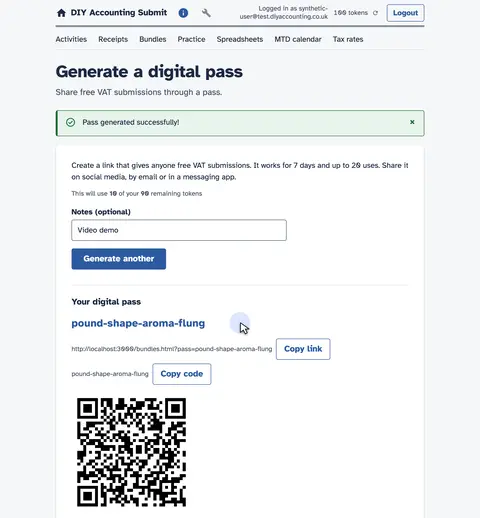
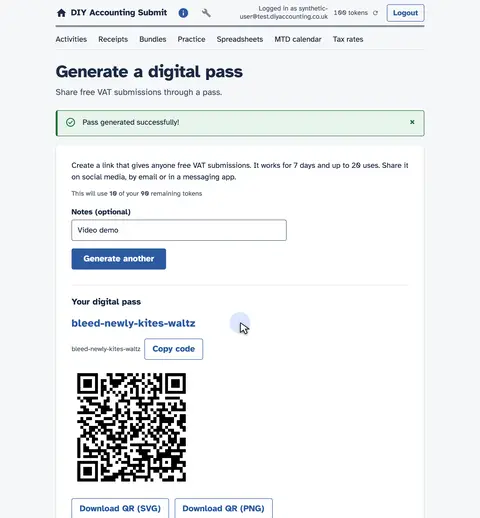
SQ1d: no simulator placeholders in the walkthrough frames
The "Period ID -" and "Submission ID -" frames came from 2025-26 and
later tax years, where HMRC's cumulative PUT answers 204 with no id
(the simulator and the sandbox both do this); the result panels now
read "Reporting: Year to date" as the submission record does. The
digital and physical pass pages build the pass link from the page's
own origin; passGeneratePost no longer returns a url built from the
Host header, which read localhost on the simulator lane.
generate-pass-digital re-recorded and uploaded unlisted as nYATYJWMKVU
(was sR5gi4CJlx4).

Claude-Model: claude-opus-5-5
Claude-Session: https://claude.ai/code/session_01EGGiTou71soxDW7WJJUUcF

Changed region(s): [[0.1562, 0.6178, 0.6875, 1.0], [0.125, 0.9884, 0.1562, 1.0]]

diff --git a/web/browser-tests/generatePassLink.browser.test.js b/web/browser-tests/generatePassLink.browser.test.js
@@ -1,0 +1,60 @@
+// SPDX-License-Identifier: LicenseRef-PolyForm-Internal-Use-1.0.0
+// Copyright (C) 2006-2026 DIY Accounting Limited
+
+// web/browser-tests/generatePassLink.browser.test.js
+// The digital pass page builds the pass link from the origin it is served from.
+
+import { test, expect } from "@playwright/test";
+import fs from "fs";
+import path from "path";
+
+const SITE = "https://submit.example.test";
+
+test.describe("Generate digital pass page", () => {
+  test("shows a pass link on the page's own origin", async ({ page }) => {
+    const root = path.join(process.cwd(), "web/public");
+    const html = fs.readFileSync(path.join(root, "passes/generate-digital.html"), "utf-8");
+    const pageJs = fs.readFileSync(path.join(root, "passes/generate-digital.page.js"), "utf-8");
+    const qrJs = fs.readFileSync(path.join(root, "lib/qrcode.min.js"), "utf-8");
+
+    await page.addInitScript(() => {
+      localStorage.setItem("cognitoIdToken", "mock-id-token");
+      window.__submitReady__ = true;
+      window.showStatus = () => {};
+      window.checkAuthStatus = () => {};
+      window.fetchWithIdToken = async (url) => {
+        if (url === "/api/v1/pass/generate") {
+          return {
+            ok: true,
+            json: async () => ({
+              code: "tiger-happy-mountain-silver",
+              tokensConsumed: 3,
+              tokensRemaining: 7,
+            }),
+          };
+        }
+        return { ok: true, json: async () => ({ bundles: [{ allocated: true, tokensRemaining: 10 }] }) };
+      };
+    });
+
+    await page.route(`${SITE}/**`, async (route) => {
+      const url = new URL(route.request().url());
+      if (url.pathname === "/passes/generate-digital.html") {
+        await route.fulfill({ status: 200, contentType: "text/html", body: html });
+      } else if (url.pathname === "/passes/generate-digital.page.js") {
+        await route.fulfill({ status: 200, contentType: "application/javascript", body: pageJs });
+      } else if (url.pathname === "/lib/qrcode.min.js") {
+        await route.fulfill({ status: 200, contentType: "application/javascript", body: qrJs });
+      } else if (url.pathname.endsWith(".js")) {
+        await route.fulfill({ status: 200, contentType: "application/javascript", body: "" });
+      } else {
+        await route.fulfill({ status: 404, body: "" });
+      }
+    });
+
+    await page.goto(`${SITE}/passes/generate-digital.html`, { waitUntil: "domcontentloaded" });
+    await page.locator("#generatePassBtn").click();
+
+    await expect(page.locator("#generatedPassUrl")).toHaveText(`${SITE}/bundles.html?pass=tiger-happy-mountain-silver`);
+  });
+});

diff --git a/web/browser-tests/ukPropertyPeriodResult.browser.test.js b/web/browser-tests/ukPropertyPeriodResult.browser.test.js
@@ -1,0 +1,59 @@
+// SPDX-License-Identifier: LicenseRef-PolyForm-Internal-Use-1.0.0
+// Copyright (C) 2006-2026 DIY Accounting Limited
+
+// web/browser-tests/ukPropertyPeriodResult.browser.test.js
+// The UK property quarterly update result names the submission, or the year to date when HMRC gave no id.
+
+import { test, expect } from "@playwright/test";
+import fs from "fs";
+import path from "path";
+import { setTimeout as delay } from "timers/promises";
+import {
+  serveItsaPageScripts,
+  serveCarriedIdentifiers,
+  serveSelfEmploymentExpenses,
+  serveItsaSubmissionModel,
+} from "./hmrcFieldTableAssets.js";
+
+test.describe("ITSA UK property period - result", () => {
+  let periodHtmlContent;
+
+  test.beforeAll(async () => {
+    periodHtmlContent = fs.readFileSync(path.join(process.cwd(), "web/public/hmrc/itsa/ukPropertyPeriod.html"), "utf-8");
+  });
+
+  async function openPage(page) {
+    await page.route("**/*.js", async (route) => {
+      if (route.request().resourceType() === "script") {
+        await route.fulfill({ status: 200, contentType: "application/javascript", body: "" });
+      } else {
+        await route.continue();
+      }
+    });
+    await serveItsaPageScripts(page);
+    await serveCarriedIdentifiers(page);
+    await serveSelfEmploymentExpenses(page);
+    await serveItsaSubmissionModel(page);
+
+    const modifiedHtml = periodHtmlContent.replace("<head>", '<head><base href="http://localhost:3000/hmrc/itsa/">');
+    await page.setContent(modifiedHtml, {
+      url: "http://localhost:3000/hmrc/itsa/ukPropertyPeriod.html",
+      waitUntil: "domcontentloaded",
+    });
+    await delay(200);
+  }
+
+  test("shows the submission id the dated model returns", async ({ page }) => {
+    await openPage(page);
+    await page.evaluate(() => window.displayResult({ submissionId: "4557ecb5-fd32-48cc-81f5-e6acd1099f3c" }));
+    await expect(page.locator("#submissionIdLabel")).toHaveText("Submission ID");
+    await expect(page.locator("#submissionIdResult")).toHaveText("4557ecb5-fd32-48cc-81f5-e6acd1099f3c");
+  });
+
+  test("reads Year to date when the cumulative model returns no id", async ({ page }) => {
+    await openPage(page);
+    await page.evaluate(() => window.displayResult({ model: "cumulative" }));
+    await expect(page.locator("#submissionIdLabel")).toHaveText("Reporting");
+    await expect(page.locator("#submissionIdResult")).toHaveText("Year to date");
+  });
+});

diff --git a/web/browser-tests/selfEmploymentPeriod.browser.test.js b/web/browser-tests/selfEmploymentPeriod.browser.test.js
@@ -154,4 +154,34 @@ window.authorizedFetch = window.authorizedFetch || function(){ return Promise.re
     const periodIdResult = page.locator("#periodIdResult");
     await expect(periodIdResult).toHaveText("2024-04-06_2024-07-05");
   });
+
+  test("reads Year to date when the result carries no periodId", async ({ page }) => {
+    await page.route("**/*.js", async (route) => {
+      const request = route.request();
+      if (request.resourceType() === "script") {
+        await route.fulfill({ status: 200, contentType: "application/javascript", body: "" });
+      } else {
+        await route.continue();
+      }
+    });
+    await serveItsaPageScripts(page);
+    await serveCarriedIdentifiers(page);
+    await serveSelfEmploymentExpenses(page);
+    await serveItsaSubmissionModel(page);
+
+    const modifiedHtml = periodHtmlContent.replace("<head>", '<head><base href="http://localhost:3000/hmrc/itsa/">');
+    await page.setContent(modifiedHtml, {
+      url: "http://localhost:3000/hmrc/itsa/selfEmploymentPeriod.html",
+      waitUntil: "domcontentloaded",
+    });
+    await delay(200);
+
+    await page.evaluate(() => {
+      window.displayResult({ model: "cumulative" });
+    });
+
+    const periodIdResult = page.locator("#periodIdResult");
+    await expect(periodIdResult).toHaveText("Year to date");
+    await expect(page.locator("#periodIdLabel")).toHaveText("Reporting");
+  });
 });

diff --git a/web/public/passes/generate-digital.page.js b/web/public/passes/generate-digital.page.js
@@ -140,15 +140,15 @@ document.getElementById("generatePassBtn").addEventListener("click", async () =>
 
     // Display result
     __generatedPassCode = body.code;
-    __generatedPassUrl = body.url;
+    __generatedPassUrl = `${window.location.origin}/bundles.html?pass=${encodeURIComponent(body.code)}`;
 
     document.getElementById("generatedPassCode").textContent = body.code;
-    document.getElementById("generatedPassUrl").textContent = body.url;
+    document.getElementById("generatedPassUrl").textContent = __generatedPassUrl;
     document.getElementById("passCodeSmall").textContent = body.code;
 
     // Generate QR code SVG client-side
     try {
-      const qrSvg = await QRCode.toString(body.url, {
+      const qrSvg = await QRCode.toString(__generatedPassUrl, {
         type: "svg",
         width: 250,
         margin: 2,

diff --git a/web/public/hmrc/itsa/ukPropertyPeriod.page.js b/web/public/hmrc/itsa/ukPropertyPeriod.page.js
@@ -497,7 +497,11 @@ async function handleFormSubmission(event) {
 
 function displayResult(result) {
   const submissionIdResult = document.getElementById("submissionIdResult");
-  submissionIdResult.textContent = result?.submissionId || "-";
+  // HMRC's cumulative model (2025-26 onwards) answers 204 with no submission ID: the year's running
+  // total is the one resource, so the result reads "Year to date" as the submission record does.
+  const hasSubmissionId = Boolean(result?.submissionId);
+  document.getElementById("submissionIdLabel").textContent = hasSubmissionId ? "Submission ID" : "Reporting";
+  submissionIdResult.textContent = hasSubmissionId ? result.submissionId : "Year to date";
 }
 
 document.getElementById("toggleSearchCriteriaBtn")?.addEventListener("click", () => {

diff --git a/app/functions/account/passGeneratePost.js b/app/functions/account/passGeneratePost.js
@@ -112,7 +112,6 @@ export async function ingestHandler(event) {
       headers: responseHeaders,
       data: {
         code: pass.code,
-        url: `${getBaseUrl(event)}/bundles.html?pass=${pass.code}`,
         passTypeId: pass.passTypeId,
         bundleId: pass.bundleId,
         validFrom: pass.validFrom,
@@ -131,14 +130,4 @@ export async function ingestHandler(event) {
       error: { detail: error.message },
     });
   }
-}
-
-function getBaseUrl(event) {
-  // Try to derive from request headers, fall back to env
-  const host = event.headers?.host || event.headers?.Host;
-  if (host) {
-    const proto = host.includes("localhost") ? "http" : "https";
-    return `${proto}://${host}`;
-  }
-  return process.env.APEX_URL || "https://submit.diyaccounting.co.uk";
 }

diff --git a/web/public/hmrc/itsa/selfEmploymentPeriod.page.js b/web/public/hmrc/itsa/selfEmploymentPeriod.page.js
@@ -495,7 +495,11 @@ async function handleFormSubmission(event) {
 
 function displayResult(result) {
   const periodIdResult = document.getElementById("periodIdResult");
-  periodIdResult.textContent = result?.periodId || "-";
+  // HMRC's cumulative model (2025-26 onwards) answers 204 with no period ID: the year's running
+  // total is the one resource, so the result reads "Year to date" as the submission record does.
+  const hasPeriodId = Boolean(result?.periodId);
+  document.getElementById("periodIdLabel").textContent = hasPeriodId ? "Period ID" : "Reporting";
+  periodIdResult.textContent = hasPeriodId ? result.periodId : "Year to date";
 }
 
 document.getElementById("toggleSearchCriteriaBtn")?.addEventListener("click", () => {

diff --git a/web/public/passes/generate-physical.page.js b/web/public/passes/generate-physical.page.js
@@ -219,11 +219,11 @@ document.getElementById("generatePassBtn").addEventListener("click", async () =>
 
     // Display result
     __generatedPassCode = body.code;
-    __generatedPassUrl = body.url;
+    __generatedPassUrl = `${window.location.origin}/bundles.html?pass=${encodeURIComponent(body.code)}`;
     __generatedWords = body.code.split("-");
 
     document.getElementById("generatedPassCode").textContent = body.code;
-    document.getElementById("generatedPassUrl").textContent = body.url;
+    document.getElementById("generatedPassUrl").textContent = __generatedPassUrl;
     document.getElementById("passCodeSmall").textContent = body.code;
 
     // Render front and back previews

diff --git a/app/unit-tests/functions/passGeneratePost.test.js b/app/unit-tests/functions/passGeneratePost.test.js
@@ -121,7 +121,7 @@ describe("passGeneratePost", () => {
     expect(body.maxUses).toBe(20);
     expect(body.tokensConsumed).toBe(10);
     expect(body.tokensRemaining).toBe(90);
-    expect(body.url).toContain("bundles.html?pass=tiger-happy-mountain-silver");
+    expect(body).not.toHaveProperty("url");
   });
 
   test("returns 200 with pass details on success (physical-pass)", async () => {

diff --git a/web/public/hmrc/itsa/ukPropertyPeriod.html b/web/public/hmrc/itsa/ukPropertyPeriod.html
@@ -233,7 +233,7 @@
         <h3>Quarterly update filed</h3>
         <p>HMRC has accepted the period summary.</p>
         <dl>
-          <dt>Submission ID</dt>
+          <dt id="submissionIdLabel">Submission ID</dt>
           <dd id="submissionIdResult"></dd>
         </dl>
         <div class="button-group">

diff --git a/web/public/hmrc/itsa/selfEmploymentPeriod.html b/web/public/hmrc/itsa/selfEmploymentPeriod.html
@@ -197,7 +197,7 @@
         <h3>Quarterly update filed</h3>
         <p>HMRC has accepted the period summary.</p>
         <dl>
-          <dt>Period ID</dt>
+          <dt id="periodIdLabel">Period ID</dt>
           <dd id="periodIdResult"></dd>
         </dl>
         <div class="button-group">
